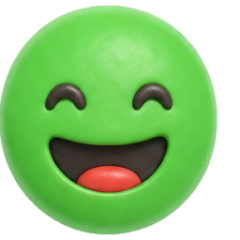
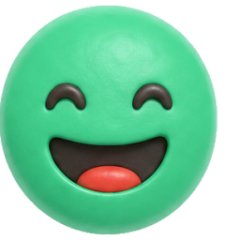
Recolor clay + geo Good/Great faces from sickly green to clean emerald
The bright/yellow-green Good & Great faces in the clay and geo feedback themes read like the nauseated emoji. Recolor just the green skin to a clean emerald via a selective hue remap that preserves the red tongue, dark/navy features, 3D shading, and geo contours (clay/4,5 + geo/4,5 tiles). Regenerate the matching inline email rocks for those two themes.

Also retire the lime #84cc16 'Good' color for a clean green #22c55e across the feedback emotion palette (public page, admin panel, tech-detail feedback, email labels) — fixes the classic theme's Good face and tidies the gradient to red -> orange -> amber -> green -> emerald.

diff --git a/backend/src/services/notificationEmailIcons.js b/backend/src/services/notificationEmailIcons.js
@@ -31,15 +31,15 @@ export const EMAIL_FEEDBACK_ROCKS_BY_THEME = {
[7 lines of base64/hex data omitted]
   ],
   geo: [
[7 lines of base64/hex data omitted]
   ],
   it: [
[1 lines of base64/hex data omitted]

diff --git a/backend/src/services/notificationWorkflowEngine.js b/backend/src/services/notificationWorkflowEngine.js
@@ -753,7 +753,7 @@ function actionAppendixText(actions = []) {
 // to the feedback page (they pick a rating there). The chip is baked into each JPEG so it shows
 // inline without "load images"; border-radius rounds it where supported (square blends on white).
 const FEEDBACK_LABELS = ['Bad', 'Meh', 'Okay', 'Good', 'Great'];
-const FEEDBACK_LABEL_COLORS = ['#ef4444', '#f97316', '#f59e0b', '#84cc16', '#10b981'];
+const FEEDBACK_LABEL_COLORS = ['#ef4444', '#f97316', '#f59e0b', '#22c55e', '#10b981'];
 const FEEDBACK_ROCK_FALLBACK_THEME = 'earth';
 
 // Pick the five rocks for the workspace's feedback theme. Unknown or SVG-only ('classic') themes

diff --git a/frontend/src/pages/PublicTicketFeedback.jsx b/frontend/src/pages/PublicTicketFeedback.jsx
@@ -8,7 +8,7 @@ import { getFeedbackTheme } from '../data/feedbackThemes';
 const DEFAULT_LABELS = ['Bad', 'Meh', 'Okay', 'Good', 'Great'];
 const DEFAULT_ACCENT = '#2563eb';
 // Emotion palette: red -> orange -> amber -> lime -> emerald (label + selection ring).
-const FACE_COLORS = ['#ef4444', '#f97316', '#f59e0b', '#84cc16', '#10b981'];
+const FACE_COLORS = ['#ef4444', '#f97316', '#f59e0b', '#22c55e', '#10b981'];
 const CHIP_BG = 'radial-gradient(circle at 50% 36%, #ffffff, #eef2f7)';
 
 function unwrap(response) {

diff --git a/frontend/src/components/settings/FeedbackPagePanel.jsx b/frontend/src/components/settings/FeedbackPagePanel.jsx
@@ -24,7 +24,7 @@ import { Button } from '../ui';
 import { SettingsHero } from './SettingsLayoutPrimitives';
 import { FEEDBACK_THEME_LIST, getFeedbackTheme } from '../../data/feedbackThemes';
 
-const FACE_COLORS = ['#ef4444', '#f97316', '#f59e0b', '#84cc16', '#10b981'];
+const FACE_COLORS = ['#ef4444', '#f97316', '#f59e0b', '#22c55e', '#10b981'];
 const MAX_LOGO_BYTES = 512 * 1024;
 
 const DEFAULTS = {

diff --git a/frontend/src/components/tech-detail/FeedbackSection.jsx b/frontend/src/components/tech-detail/FeedbackSection.jsx
@@ -2,7 +2,7 @@ import { useMemo } from 'react';
 import { MessageSquareHeart } from 'lucide-react';
 
 const EMOJI = ['😞', '😕', '😐', '🙂', '😄'];
-const COLORS = ['#ef4444', '#f97316', '#f59e0b', '#84cc16', '#10b981'];
+const COLORS = ['#ef4444', '#f97316', '#f59e0b', '#22c55e', '#10b981'];
 
 function scoreMeta(score) {
   const i = Math.min(Math.max((score || 3) - 1, 0), 4);
